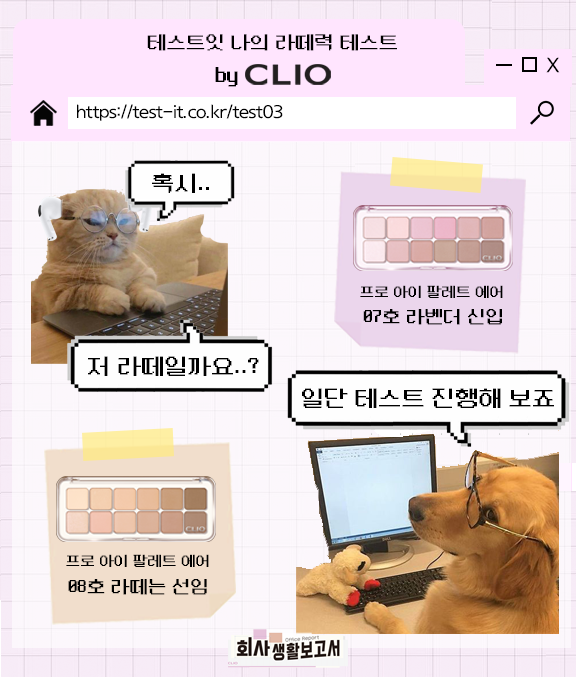
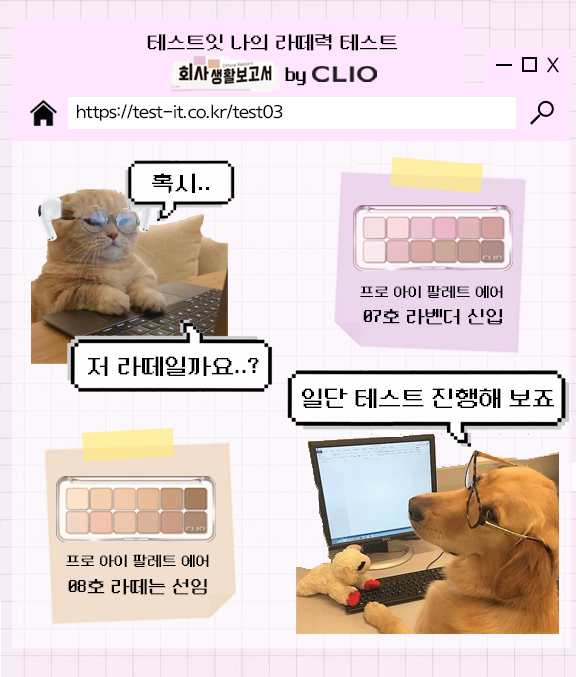
first commit

Changed region(s): [[0.3125, 0.062, 0.6562, 0.1551], [0.4062, 0.9306, 0.5938, 0.9926]]

diff --git a/test03.html b/test03.html
@@ -400,7 +400,7 @@ article{
          
              <!-- 팝업 배너 -->
 <div id="popupBanner" class="popupBanner" style="display:none;">
-      <a href="" target="_blank">
+      <a href="https://url.kr/4jxrcd" target="_blank">
     <img src="pop03.png" alt="Popup Banner Image" style="max-width: 100%; height: auto;">
              </a>
     <button onclick="closePopupBanner()" class="close-btn">닫기</button>
@@ -417,43 +417,43 @@ article{
       // JavaScript 코드
    var questions = [
   {
-    question: "<a href='' target='_blank'><img class='question-image' src='banner03-1.png'></a><br><br><br>들어온 지 얼마 안 된 신입이<br><br>자꾸 호칭 실수를 한다",
+    question: "<a href='https://url.kr/4jxrcd' target='_blank'><img class='question-image' src='banner03-1.png'></a><br><br><br>들어온 지 얼마 안 된 신입이<br><br>자꾸 호칭 실수를 한다",
     choices: ["호칭 정도는 제대로 알아야 하지 않나?", "아직 입에 안 붙나 보다 그럴 수 있지"]
   },
         {
-          question: "<a href='' target='_blank'><img class='question-image' src='banner03-2.png'></a><br><br><br>업무 인수인계를 하고 있는데<br><br>아무것도 적지 않고 듣기만 하는 신입",
+          question: "<a href='https://url.kr/4jxrcd' target='_blank'><img class='question-image' src='banner03-2.png'></a><br><br><br>업무 인수인계를 하고 있는데<br><br>아무것도 적지 않고 듣기만 하는 신입",
           choices: ["이러고 나중에 또 물어볼 거 같은데..", "이해가 빠른 친구인가 보다"]
         },
         {
-          question: "<a href='' target='_blank'><img class='question-image' src='banner03-3.png'></a><br><br><br>신입 환영 회식 자리<br><br>분위기가 너무 조용하다",
+          question: "<a href='https://url.kr/4jxrcd' target='_blank'><img class='question-image' src='banner03-3.png'></a><br><br><br>신입 환영 회식 자리<br><br>분위기가 너무 조용하다",
           choices: ["신입에게 건배사를 시킨다", "그래! 나라도 나서야지~\n대화 주제를 먼저 꺼낸다"]
         },
    {
-          question: "<a href='' target='_blank'><img class='question-image' src='banner03-1.png'></a><br><br><br>신입들에게 커피 4잔을 사 오라고 시켰는데<br><br>둘이 가서 사 온다고 한다",
+          question: "<a href='https://url.kr/4jxrcd' target='_blank'><img class='question-image' src='banner03-1.png'></a><br><br><br>신입들에게 커피 4잔을 사 오라고 시켰는데<br><br>둘이 가서 사 온다고 한다",
           choices: ["충분히 혼자 사 올 수 있지 않나?", "그래 갔다 오면서 머리 좀 식혀라"]
         },
    {
-          question: "<a href='' target='_blank'><img class='question-image' src='banner03-2.png'></a><br><br><br>출근 시간 9시<br><br>신입이 딱 9시에 맞춰서 출근을 한다",
+          question: "<a href='https://url.kr/4jxrcd' target='_blank'><img class='question-image' src='banner03-2.png'></a><br><br><br>출근 시간 9시<br><br>신입이 딱 9시에 맞춰서 출근을 한다",
           choices: ["10분이라도 일찍 오지", "지각만 안 하면 되지 뭘"]
         },
    {
-          question: "<a href='' target='_blank'><img class='question-image' src='banner03-3.png'></a><br><br><br>신입에게 자료 보내달라고 메일을 보냈는데<br><br>정말 딱 자료만 보내왔다",
+          question: "<a href='https://url.kr/4jxrcd' target='_blank'><img class='question-image' src='banner03-3.png'></a><br><br><br>신입에게 자료 보내달라고 메일을 보냈는데<br><br>정말 딱 자료만 보내왔다",
           choices: ["예의상 인사말이라도 넣지 않나", "자료가 필요한 거였기 때문에 괜찮다"]
         },
    {
-          question: "<a href='' target='_blank'><img class='question-image' src='banner03-1.png'></a><br><br><br>동기가 놀러 왔는지<br><br>자리에서 동기와 떠드는 신입",
+          question: "<a href='https://url.kr/4jxrcd' target='_blank'><img class='question-image' src='banner03-1.png'></a><br><br><br>동기가 놀러 왔는지<br><br>자리에서 동기와 떠드는 신입",
           choices: ["떠드는 소리가 거슬린다", "바쁠 때만 아니면 괜찮다"]
         },
    {
-          question: "<a href='' target='_blank'><img class='question-image' src='banner03-2.png'></a><br><br><br>신입에게 회의한다고 들어오라고 했는데<br><br>슬리퍼를 질질 끌고 들어온다",
+          question: "<a href='https://url.kr/4jxrcd' target='_blank'><img class='question-image' src='banner03-2.png'></a><br><br><br>신입에게 회의한다고 들어오라고 했는데<br><br>슬리퍼를 질질 끌고 들어온다",
           choices: ["태도가 영...", "그럴 수도 있지 뭐"]
         },
    {
-          question: "<a href='' target='_blank'><img class='question-image' src='banner03-3.png'></a><br><br><br>부서 일이 많아 다들 야근하는데<br><br>6시 땡 하자마자 퇴근한다고 가는 신입",
+          question: "<a href='https://url.kr/4jxrcd' target='_blank'><img class='question-image' src='banner03-3.png'></a><br><br><br>부서 일이 많아 다들 야근하는데<br><br>6시 땡 하자마자 퇴근한다고 가는 신입",
           choices: ["퇴근시간 맞긴 한데 기분이 좀 그렇네", "얼른 집에 가고 싶겠지. 빨리 끝내고 나도 가자"]
         },
    {
-          question: "<a href='' target='_blank'><img class='question-image' src='banner03-1.png'></a><br><br><br>신입에게 안녕하세요 인사를 건넸는데<br><br>네~라고 한다",
+          question: "<a href='https://url.kr/4jxrcd' target='_blank'><img class='question-image' src='banner03-1.png'></a><br><br><br>신입에게 안녕하세요 인사를 건넸는데<br><br>네~라고 한다",
           choices: ["인사는 인사로 받는 게 맞지 않나", "네~했으면 됐지"]
         }
       ];
